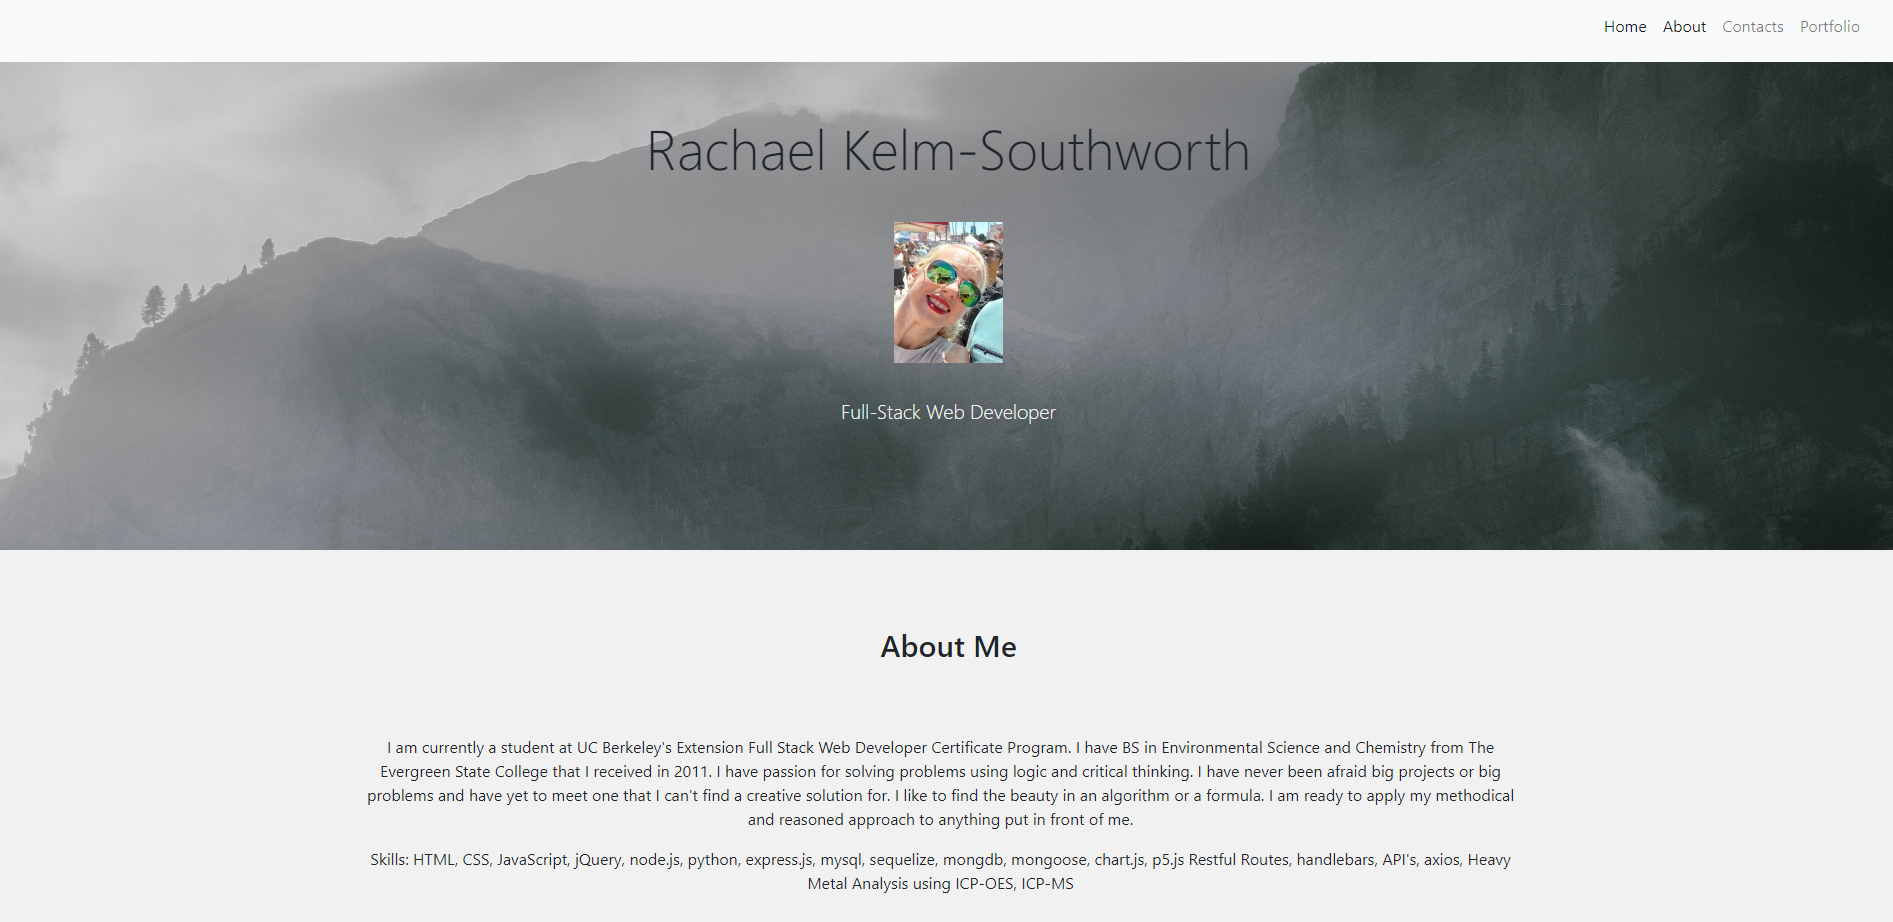
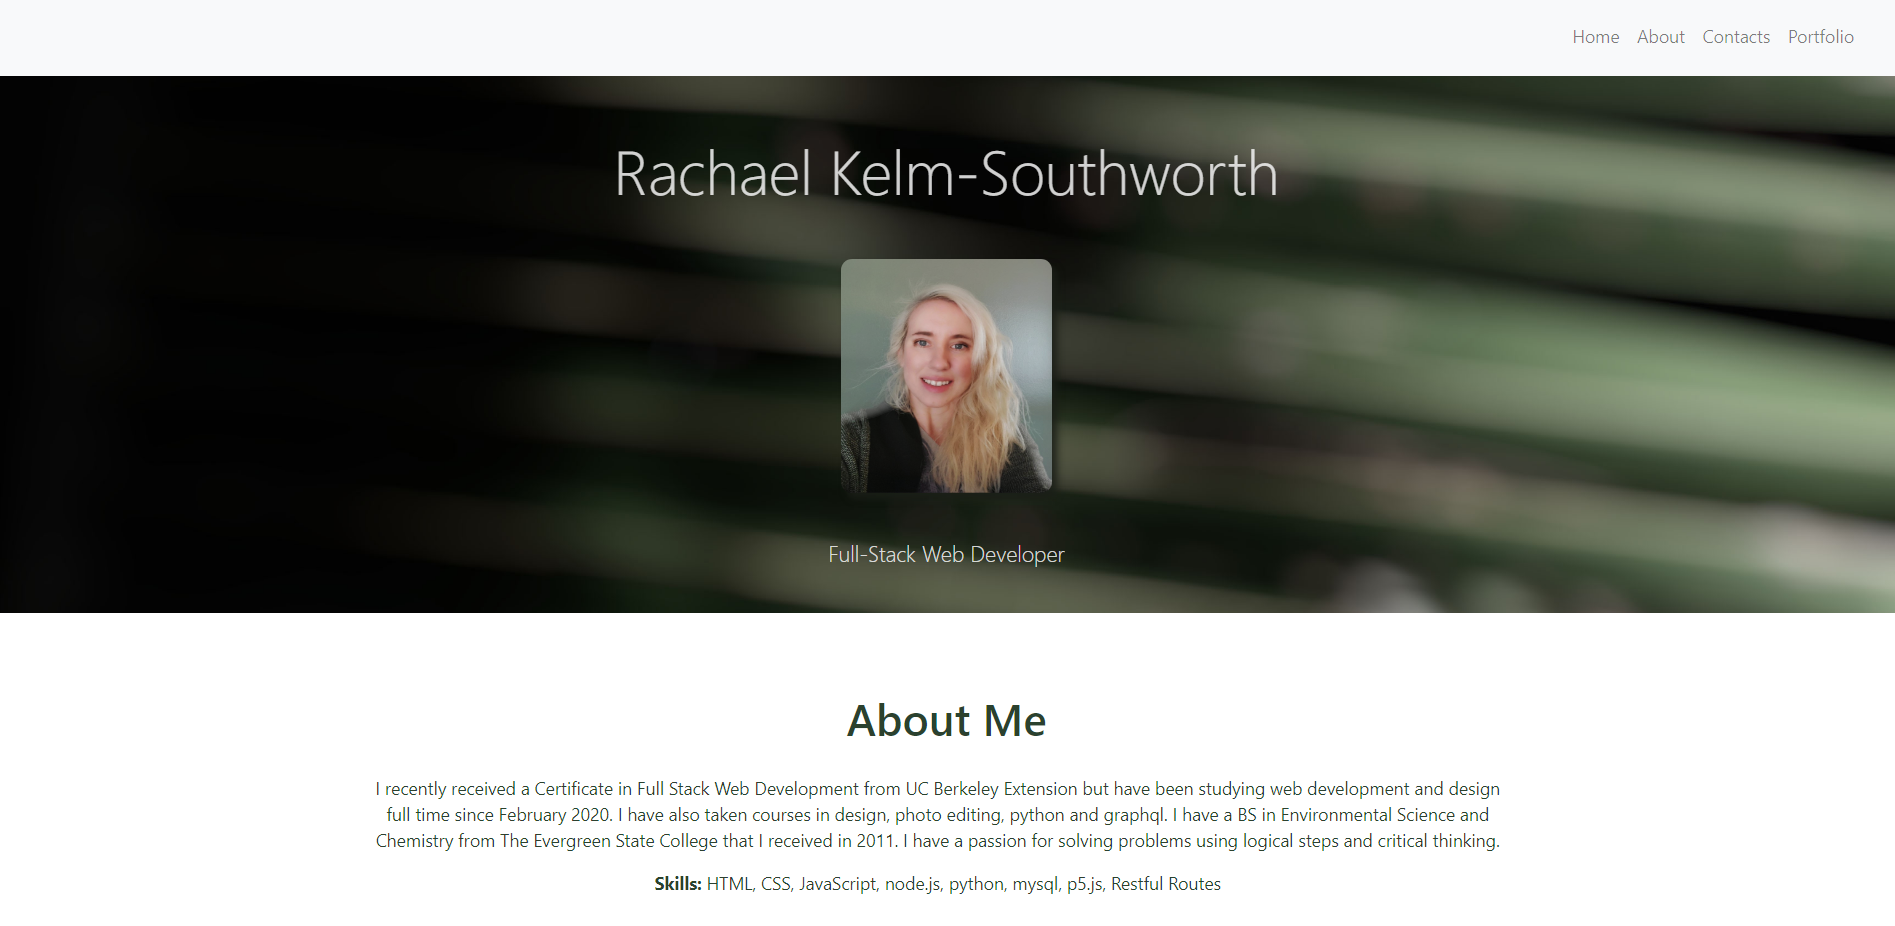
updated description and frontpage image

diff --git a/README.md b/README.md
@@ -1,7 +1,7 @@
 # React Portfolio
 ![React Portfolio](Images/FrontPage.png)
 
-### A simple app to help you sort through your employees by name
+### A website I designed to highlight my best work. My goal was to make it interesting to look at but also easy to use and get information on me and my skills quickly. 
 
 ## Table of Contents
 * [Technologies Used](Technologies_Used)
